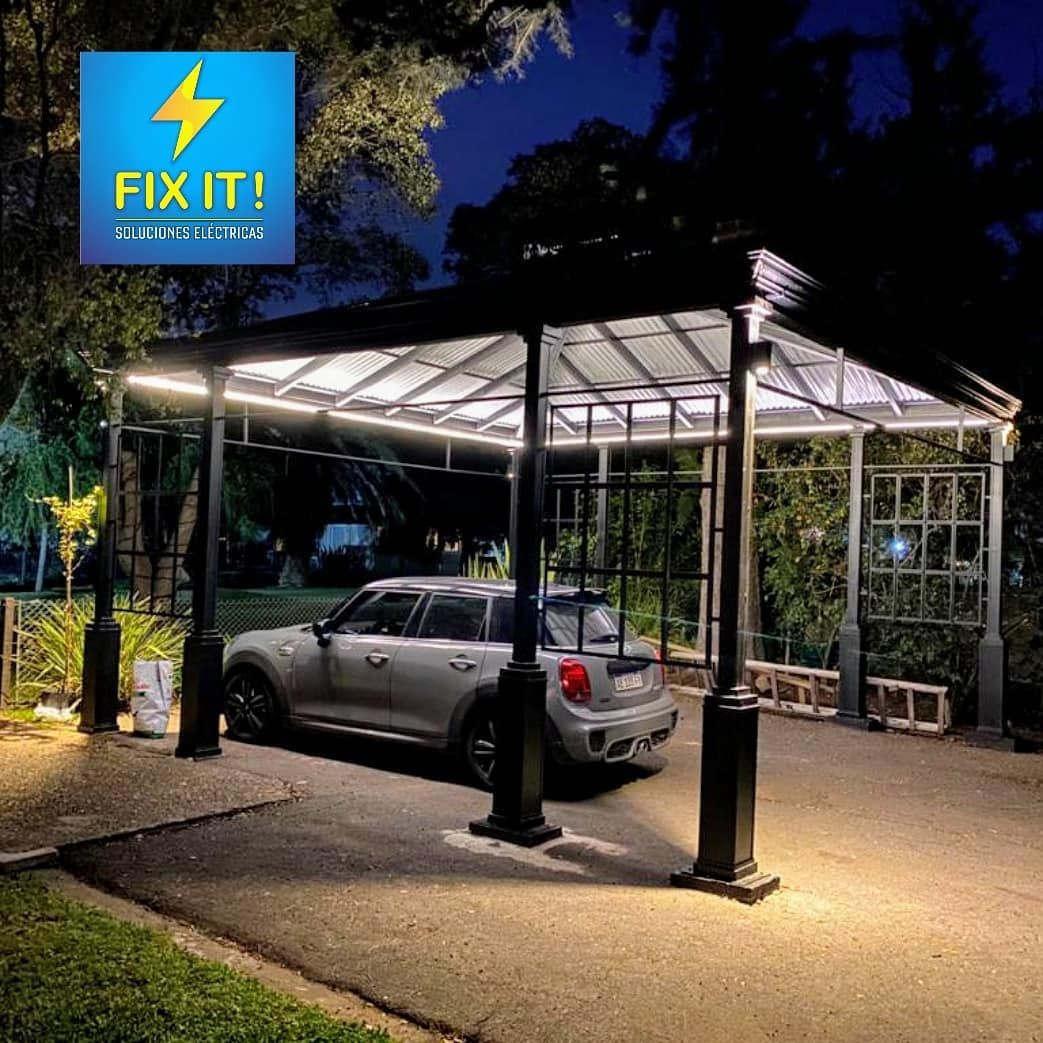
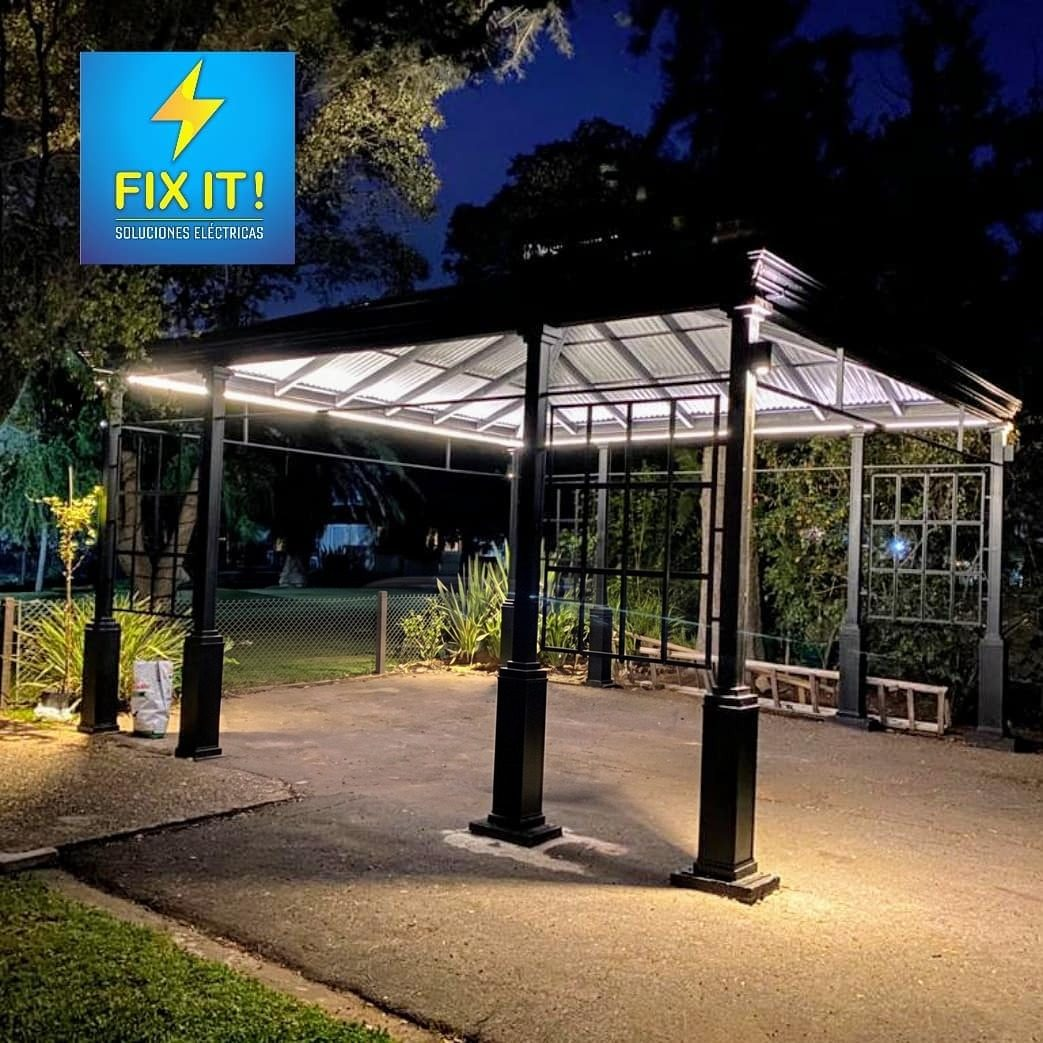
fotos nuevas de FIX IT! (2024-2026), portada sin el auto (borrado con IA solo en esa zona), tableros en álbum y servicios con fotos reales

Changed region(s): [[0.1841, 0.5216, 0.675, 0.7977]]

diff --git a/index.html b/index.html
@@ -26,7 +26,10 @@
      (residencial / comercial / construcción), los consejos de la semana de 2019 y los lugares de cada trabajo
      (etiqueta de ubicación del post). Colocan las lámparas de 10Mil11 (post de 2021, @lamparas_10mil11).
      Sin precios (no publican), sin urgencias 24 hs (no las ofrecen), sin nombres de clientes ni de quien trabaja.
-     Solo contacto por WhatsApp: nada llama a una API. -->
+     Solo contacto por WhatsApp: nada llama a una API.
+     2026-10-24 (noche): fotos nuevas que pasó el dueño (img/r-*, 2024-2026, sin EXIF; a la del tablero rotulado se le recortó una
+     credencial con foto). La foto de portada (tira-24m-2) tiene el AUTO BORRADO CON IA a pedido del dueño (Nano Banana Pro),
+     pegado solo sobre la zona del auto: estructura, tira LED y piso son los de la foto original. -->
 <script type="application/ld+json">
 {"@context":"https://schema.org","@type":"Electrician","name":"FIX IT! Soluciones eléctricas",
  "description":"Tenemos una solución para cada problema de electricidad en tu hogar o comercio. Instalaciones, reparaciones, iluminación, tableros, porteros y seguridad.",
@@ -222,6 +225,7 @@ if(!matchMedia('(prefers-reduced-motion: reduce)').matches) document.documentEle
   .tr-k{font:600 12.5px/1.2 var(--d);letter-spacing:.12em;text-transform:uppercase;color:var(--azul)}
   .tr h3{font:700 20px/1.15 var(--d);margin-top:6px}
   .vacio{color:var(--mute)}
+  .grilla .mas{grid-column:1/-1;justify-self:center;margin-top:8px}
   @media (max-width:600px){.grilla{grid-template-columns:repeat(2,minmax(0,1fr));gap:10px}.tr-in{padding:10px 11px 12px}.tr h3{font-size:16.5px}.tr-k{font-size:11px}.tr-n{right:6px;bottom:6px;font-size:10.5px}}
 
   /* visor */
@@ -481,11 +485,11 @@ if(!matchMedia('(prefers-reduced-motion: reduce)').matches) document.documentEle
       <p>Desde cambiar una llave hasta la instalación eléctrica completa de una casa de dos plantas, con el cálculo de materiales incluido.</p>
     </header>
     <div class="tres">
-      <article class="serv rev"><img src="img/marca-residencial.jpg" width="1080" height="1080" alt="" loading="lazy"><div class="serv-in"><h3>Residencial</h3><ul>
+      <article class="serv rev"><img src="img/r-arana.jpg" width="1209" height="910" alt="Araña de cristal colocada por FIX IT!" loading="lazy" style="object-position:50% 70%"><div class="serv-in"><h3>Residencial</h3><ul>
         <li>Reparaciones eléctricas</li><li>Luminarias decorativas y artefactos, adentro y afuera</li><li>Lámparas LED y ventiladores de techo</li><li>Recableados y cableados especiales</li><li>Porteros eléctricos, con cámara y sensores de movimiento</li></ul></div></article>
-      <article class="serv rev"><img src="img/marca-comercial.jpg" width="1080" height="1080" alt="" loading="lazy"><div class="serv-in"><h3>Comercial</h3><ul>
+      <article class="serv rev"><img src="img/r-oficina.jpg" width="683" height="910" alt="Oficina con rieles, spots y canalización a la vista" loading="lazy" style="object-position:50% 30%"><div class="serv-in"><h3>Comercial</h3><ul>
         <li>Asesoramiento técnico en seguridad eléctrica</li><li>Instalaciones eléctricas</li><li>Térmicas y disyuntores</li><li>Mantenimiento</li><li>Iluminación de vidrieras, vitrinas y locales</li></ul></div></article>
-      <article class="serv rev"><img src="img/marca-proyectos.jpg" width="1080" height="1080" alt="" loading="lazy"><div class="serv-in"><h3>Construcción</h3><ul>
+      <article class="serv rev"><img src="img/r-canerias.jpg" width="1213" height="910" alt="Cañerías embutidas en una pared de ladrillo, en obra" loading="lazy"><div class="serv-in"><h3>Construcción</h3><ul>
         <li>Diseño y ejecución de la obra eléctrica</li><li>Cálculo de materiales y sugerencias innovadoras</li><li>Pilar, tablero principal y secundarios</li><li>Actualización de tableros</li><li>Cañerías para cámaras, alarma y datos</li></ul></div></article>
     </div>
     <h3 class="h-esp rev">Y lo especial <small>Trabajos que no hace cualquiera.</small></h3>
@@ -607,15 +611,15 @@ const CFG = {
   },
   // las térmicas del tablero: qué hacen sale de sus posts; «ojo» son sus propios consejos de la semana
   problemas: [
-    {id: 'corte', cinta: 'SE CORTA', amp: 'C20', t: 'Se corta la luz o salta la térmica', foto: 'tablero-14', pos: '50% 100%',
+    {id: 'corte', cinta: 'SE CORTA', amp: 'C20', t: 'Se corta la luz o salta la térmica', foto: 'r-tablero-08', pos: '50% 50%',
       hacemos: ['Buscamos la falla y la reparamos.', 'Térmicas y disyuntores nuevos, bien dimensionados.', 'Recableado donde haga falta.', 'Si tenés trifásica: selector de fases para pasarte a la que tiene carga.'],
       ojo: 'Revisar la instalación seguido previene cortocircuitos que pueden causar incendios. Si salta siempre con lo mismo enchufado, anotalo y contanos.'},
-    {id: 'enchufe', cinta: 'ENCHUFES', amp: 'C16', t: 'Un enchufe, llave o artefacto no anda', foto: 'supervision', pos: '50% 0%',
+    {id: 'enchufe', cinta: 'ENCHUFES', amp: 'C16', t: 'Un enchufe, llave o artefacto no anda', foto: 'r-pinza', pos: '50% 55%',
       hacemos: ['Reparaciones eléctricas en casa y comercio.', 'Tomas con conductor de 2,5 mm² y su conexión a tierra.', 'Llaves combinadas, dimmers y fotocélulas.'],
       ojo: 'No uses aparatos con cables pelados ni enchufes deteriorados, y no conectes varios al mismo tomacorriente. Si tenés que tocar un artefacto, desconectalo antes.'},
-    {id: 'luz', cinta: 'LUCES', amp: 'C10', t: 'Quiero iluminar distinto', foto: 'escalera-3', pos: '50% 0%',
+    {id: 'luz', cinta: 'LUCES', amp: 'C10', t: 'Quiero iluminar distinto', foto: 'r-cocina', pos: '50% 50%',
       hacemos: ['Luminarias decorativas, adentro y afuera.', 'Tira LED, dicroled y dimmers.', 'Colgantes, apliques y lámparas de época, restauradas.', 'Ventiladores de techo.']},
-    {id: 'obra', cinta: 'OBRA', amp: 'C32', t: 'Obra nueva o refacción', foto: 'gimnasio-2', pos: '50% 0%',
+    {id: 'obra', cinta: 'OBRA', amp: 'C32', t: 'Obra nueva o refacción', foto: 'r-tablero-04', pos: '50% 50%',
       hacemos: ['Diseño y ejecución de la obra eléctrica.', 'Cálculo de materiales y sugerencias.', 'Pilar, tablero principal y secundarios.', 'Cañerías para cámaras, alarma y datos.']},
     {id: 'seguridad', cinta: 'PORTERO', amp: 'C6', t: 'Portero, cámaras, cerco o acceso', foto: 'portero', pos: '50% 100%',
       hacemos: ['Porteros eléctricos, con cámara y sensores de movimiento.', 'Cámaras de seguridad y grabador.', 'Cerco eléctrico.', 'Control de acceso biométrico y cerraduras smart.']},
@@ -630,6 +634,21 @@ const CFG = {
   cats: {luz: 'Iluminación', obra: 'Instalaciones y obra', seg: 'Seguridad y accesos', com: 'Comercios y oficinas'},
   // trabajos: textos resumidos de cada post; lugar = etiqueta de ubicación del post (null si no tenía)
   trabajos: [
+    // recientes: fotos que pasó FIX IT! (2024-2026), sin post de Instagram; año = fecha de la foto, sin lugar (no lo sabemos)
+    {anio: 2026, lugar: null, cat: ['obra'], fotos: ['r-tablero-07', 'r-tablero-08', 'r-tablero-09', 'r-tablero-06', 'r-tablero-10', 'r-tablero-11', 'r-tablero-12', 'r-tablero-05', 'r-tablero-04', 'r-tablero-02', 'r-tablero-03', 'r-tablero-01', 'r-medidor'], t: 'Tableros, uno por uno', p: 'Trece tableros armados entre 2024 y 2026: térmicas y disyuntores por circuito y el cableado ordenado por colores.'},
+    {anio: 2025, lugar: null, cat: ['obra', 'com'], fotos: ['r-rotulado'], pos: '0% 50%', t: 'Cada circuito, con su nombre', p: 'Disyuntor, térmicas y contactor, con la lista pegada en la tapa: heladeras, iluminación, aire acondicionado, tomas y ventiladores de techo.'},
+    {anio: 2026, lugar: null, cat: ['obra'], fotos: ['r-bombas'], t: 'Tablero de bombas', p: 'Comando de dos bombas con luces de tablero encendido, bomba 1, bomba 2 y cisterna sin agua, y selector automático / apagado / manual.'},
+    {anio: 2025, lugar: null, cat: ['obra'], fotos: ['r-comando'], t: 'Comando manual y automático', p: 'Caja estanca con selector manual, pausa y automático, y luces piloto.'},
+    {anio: 2024, lugar: null, cat: ['luz', 'com'], fotos: ['r-cancha'], t: 'Reflectores para una cancha de tenis', p: 'Iluminación de una cancha de polvo de ladrillo con reflectores en columna.'},
+    {anio: 2025, lugar: null, cat: ['luz'], fotos: ['r-arana'], t: 'Araña de cristal', p: 'Colocación de una araña de cristal.'},
+    {anio: 2024, lugar: null, cat: ['luz'], fotos: ['r-bano'], t: 'Araña en el baño', p: 'Una araña dorada sobre un baño revestido en madera.'},
+    {anio: 2024, lugar: null, cat: ['luz', 'com'], fotos: ['r-oficina'], t: 'Rieles y spots en una oficina', p: 'Iluminación con rieles y spots negros, y la canalización a la vista, prolija, sobre la pared.'},
+    {anio: 2025, lugar: null, cat: ['luz'], fotos: ['r-cocina'], t: 'Luz bajo alacena', p: 'Tira LED bajo las alacenas y spots embutidos en una cocina.'},
+    {anio: 2025, lugar: null, cat: ['obra'], fotos: ['r-canerias'], t: 'Cañerías en obra', p: 'Canalización embutida en una pared de ladrillo, con las cajas de llaves y tomas en su lugar.'},
+    {anio: 2025, lugar: null, cat: ['luz', 'obra'], fotos: ['r-farola'], t: 'Farola de jardín', p: 'Colocación de una farola, con el cable por zanja.'},
+    {anio: 2025, lugar: null, cat: ['seg'], fotos: ['r-acceso'], t: 'Control de acceso', p: 'Teclado, cerradura magnética y fuente, listos para instalar.'},
+    {anio: 2026, lugar: null, cat: ['seg'], fotos: ['r-commax'], t: 'Portero Commax', p: 'Conexionado de un portero Commax.'},
+    // de su Instagram (2018-2024)
     {post: 'CG8cQoZnOfF', anio: 2020, lugar: null, cat: ['luz'], fotos: ['tira-24m-2', 'tira-24m-1'], t: 'Tira LED de 24 metros con dimmer', p: 'Decoración de una estructura con 24 metros lineales de tira LED y un dimmer para regular la intensidad de la luz.'},
     {post: 'CFk8IF7sghw', anio: 2020, lugar: null, cat: ['luz'], fotos: ['pergola-ip65'], t: 'Pérgola sin un cable a la vista', p: 'Luminarias IP65 bidireccionales en una pérgola con un trabajo de herrería de mucho detalle. El pedido: la instalación completamente oculta y con fotocontrol.'},
     {post: 'CE0OpUzs3Aj', anio: 2020, lugar: 'City Bell', cat: ['luz'], fotos: ['escalera-2', 'escalera-3', 'escalera-4', 'escalera-1'], t: 'Luz de cortesía en la escalera', p: '16 metros de tira LED 50-50 acompañando la escalera, de punta a punta.'},
@@ -799,7 +818,7 @@ $('#pasos').addEventListener('click', e => { const b = e.target.closest('.paso')
 ponerG(0);
 
 // ── 03 trabajos ──
-const FILTRO = {cat: 'todos', lugar: null};
+const FILTRO = {cat: 'todos', lugar: null, todos: false};
 const pintarFiltros = () => {
   const n = c => CFG.trabajos.filter(t => c === 'todos' || t.cat.includes(c)).length;
   $('#filtros').innerHTML = [['todos', 'Todos'], ...Object.entries(CFG.cats)].map(([k, v]) =>
@@ -815,13 +834,20 @@ $('#filtros').addEventListener('click', e => {
 });
 function pintarGrilla() {
   const lista = CFG.trabajos.map((t, i) => ({...t, i})).filter(t => FILTRO.lugar ? t.lugar === FILTRO.lugar : (FILTRO.cat === 'todos' || t.cat.includes(FILTRO.cat)));
-  $('#grilla').innerHTML = lista.length ? lista.map(t => `<button type="button" class="tr" data-i="${t.i}">
-    <span class="tr-img"><img src="img/${t.fotos[0]}.jpg" alt="" width="600" height="600" loading="lazy">
+  const corta = FILTRO.cat === 'todos' && !FILTRO.lugar && !FILTRO.todos && lista.length > 12;
+  const total = lista.length;
+  if (corta) lista.length = 12;
+  $('#grilla').innerHTML = (lista.length ? lista.map(t => `<button type="button" class="tr" data-i="${t.i}">
+    <span class="tr-img"><img src="img/${t.fotos[0]}.jpg" alt="" width="600" height="600" loading="lazy"${t.pos ? ` style="object-position:${t.pos}"` : ''}>
       ${t.vid ? '<span class="tr-n">▶ Video</span>' : t.fotos.length > 1 ? `<span class="tr-n">${t.fotos.length} fotos</span>` : ''}</span>
     <span class="tr-in"><span class="tr-k">${t.lugar ? esc(t.lugar) + ' · ' : ''}${t.anio}</span><h3>${esc(t.t)}</h3></span></button>`).join('')
-    : '<p class="vacio">No hay trabajos con ese filtro.</p>';
+    : '<p class="vacio">No hay trabajos con ese filtro.</p>')
+    + (corta ? `<button type="button" class="btn btn-line mas" id="ver-todos">Ver los ${total} trabajos</button>` : '');
 }
-$('#grilla').addEventListener('click', e => { const b = e.target.closest('.tr'); if (b) abrir(+b.dataset.i); });
+$('#grilla').addEventListener('click', e => {
+  if (e.target.closest('#ver-todos')) { FILTRO.todos = true; pintarGrilla(); return; }
+  const b = e.target.closest('.tr'); if (b) abrir(+b.dataset.i);
+});
 pintarFiltros(); pintarGrilla();
 
 // visor
@@ -837,7 +863,7 @@ function pintarVisor() {
       <span class="puntos">${t.fotos.map((_, j) => `<i class="${j === VIS.f ? 'on' : ''}"></i>`).join('')}</span>` : '');
   $('#v-txt').innerHTML = `<p class="k">${t.cat.map(c => CFG.cats[c]).join(' · ')}</p><h3>${esc(t.t)}</h3><p>${esc(t.p)}</p>
     <p style="font:600 14px/1.3 var(--d);letter-spacing:.1em;text-transform:uppercase;color:var(--mute)">${t.lugar ? esc(t.lugar) + ' · ' : ''}${t.anio}</p>
-    <a class="ig" href="https://www.instagram.com/${t.reel ? 'reel' : 'p'}/${t.post}/" target="_blank" rel="noopener">Ver en Instagram ↗</a>
+    ${t.post ? `<a class="ig" href="https://www.instagram.com/${t.reel ? 'reel' : 'p'}/${t.post}/" target="_blank" rel="noopener">Ver en Instagram ↗</a>` : ''}
     <a class="btn btn-ama" href="${wa(`¡Hola FIX IT! Vi en la web el trabajo «${t.t}» y quería consultarles por algo parecido.`)}" target="_blank" rel="noopener" style="margin-top:6px">Quiero algo así</a>`;
 }
 const mover = d => { if (VIS.t.vid || VIS.t.fotos.length < 2) return; VIS.f = (VIS.f + d + VIS.t.fotos.length) % VIS.t.fotos.length; pintarVisor(); };
